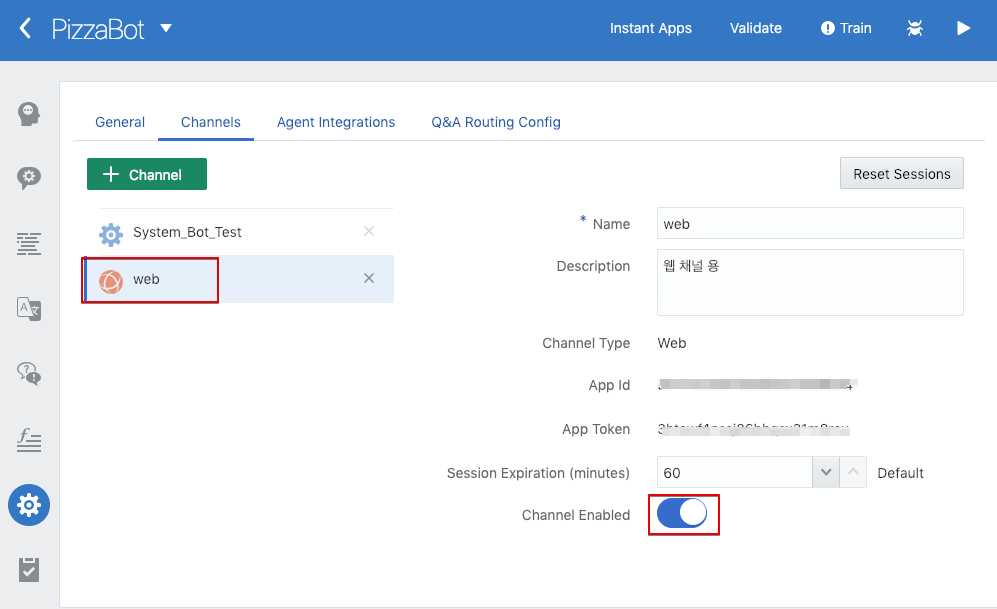
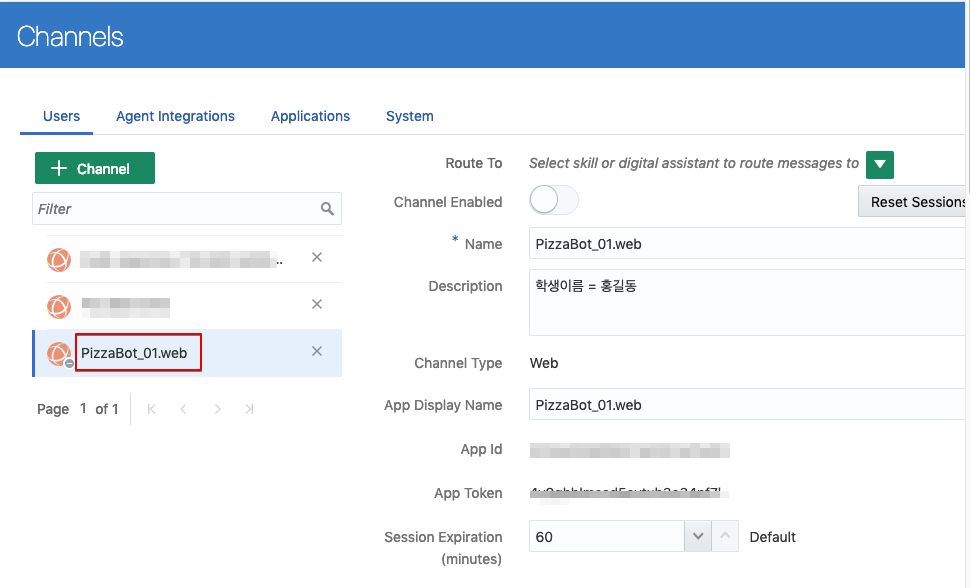
19.1.1로 업데이트

diff --git a/_posts/2019-01-23-챗봇 Hands-on Lab_4.md b/_posts/2019-01-23-챗봇 Hands-on Lab_4.md
@@ -12,26 +12,31 @@ categories: chatbot
 
 
 ## 웹 채널 생성
-이전 Lab에서 생성한 각자의 피자봇 **PizzaBot_{SEQ}** (예 : PizzaBot_01)를 선택하고 들어갑니다.
-
-좌측의 **톱니바퀴** 모양의 설정 아이콘을 클릭하여 설정 페이지로 들어가서 **Channels** 탭을 선택합니다. 
-
-**System_Bot_Test**라는 Test UI에서 사용하는 채널이 기본적으로 등록되어 있습니다. 이 설정은 그대로 두고 **+ Channel** 버튼을 클릭하여 새로운 채널을 생성하도록 합니다. 
-
+좌측 메인 메뉴의 **Channels** 메뉴를 선택합니다.
 ![](/assets/images/chatbot_lecture/channel/01_channel_settings.png)
+
+ **+ Channel** 버튼을 클릭하여 새로운 채널을 생성하도록 합니다. 
 
 다음과 같이 입력하고 **Create** 버튼을 클릭합니다.
 
-* Name : web
-* Descrption : 웹 채널 용 
+* Name : PizzaBot_{SEQ}.web 
+> 본인이 생성한 PizzaBot과 동일 명으로 합니다 
+* Descrption : 학생이름 = [본인이름]
 * Channel Type : Web
-* Channel Enabled : Enabled
 
 ![](/assets/images/chatbot_lecture/channel/02_create_channel.png)
 
 다음과 같이 채널이 만들어 진 것을 확인 합니다.
 
 ![](/assets/images/chatbot_lecture/channel/03_Channel_created.png)
+
+만든 채널을 각자의 PizzaBot과 연결하기 위해 **Route To**를 클릭하여 본인의 Bot과 연결되게 합니다.
+
+![](/assets/images/chatbot_lecture/channel/03_Channel_route.png)
+
+아래와 같이 연결되었는지를 확인하고 **Channel Enabled**를 활성화 시킵니다.
+
+![](/assets/images/chatbot_lecture/channel/03_Channel_route_done.png)
 
 채널 생성은 완료되었습니다.
 
@@ -42,6 +47,14 @@ Oracle Digital Assistant는 웹채널을 태스트 하기 위한 chat-sample-web
 Text Box에 자신의 PizzaBot에서 만든 **Web** 채널의 **App Id**를 복사해서 입력해 줍니다. **Continue**를 누르면 해당 웹페이지의 채팅은 자신의 PizzaBot에 연결 될 것입니다.
 
 ![](/assets/images/chatbot_lecture/channel/04_web_app_id.png)
+
+> App Id 입력하는 Text Box가 첫 화면에서 보이지 않는다면 다음과 같이 설정 아이콘을 클릭하여 App ID를 입력해 줍니다.
+>
+> ![](/assets/images/chatbot_lecture/channel/04_web_app_id_setting.png)
+>
+> App Id를 자신의 채널 것으로 업데이트하고 Save 합니다.
+>
+> ![](/assets/images/chatbot_lecture/channel/04_web_app_id_setting_save.png)
 
 **Chat with your BOT** 버튼을 클릭하여 대화를 시작해 봅니다.
 

diff --git a/_posts/2019-01-22-챗봇 Hands-on Lab_2.md b/_posts/2019-01-22-챗봇 Hands-on Lab_2.md
@@ -22,7 +22,7 @@ categories: chatbot
 
 ![](/assets/images/chatbot_lecture/00_after_login.png)
 
-아래와 같이 왼편 메뉴에서 **Bots** 메뉴를 클릭합니다.
+아래와 같이 왼편 메뉴에서 **Skills** 메뉴를 클릭합니다.
 
 ![](/assets/images/chatbot_lecture/01_bot_first_page.png)
 
@@ -39,12 +39,16 @@ categories: chatbot
 ![](/assets/images/chatbot_lecture/03_masterbot_clone.png)
 
 다음과 같이 입력하고 Clone 합니다.
+* Display Name :  MasterBot_[제공된 SEQ]
 * Name :  MasterBot_[제공된 SEQ]
-* Description : 본인 이름 
+* Version : 1.0
+* Description : 학생이름 = [본인 이름]
+* open cloned skill bot afterwards : check 
 
 ![](/assets/images/chatbot_lecture/04_masterbot_clone_window.png)
 
 복제가 성공되면 다음과 같이 새로운 BOT이 생성된 걸 볼 수 있습니다.
+> 복제된 Skill 바로 열기(open cloned skill bot afterwards) 체크박스를 선택했다면, 아래 화면이 보이지 않고 Skill Edit 모드로 바로 들어갑니다.
 
  ![](/assets/images/chatbot_lecture/05_after_clone_master.png)
 
@@ -52,6 +56,8 @@ categories: chatbot
 =======
 
  방금 생성한 본인의 MasterBot의 이름을 클릭하거나 아래와 같이 **Edit** 메뉴를 클릭하여 Bot의 편집 화면으로 이동합니다.
+
+ > 복제된 Skill 바로 열기(open cloned skill bot afterwards) 체크박스를 선택했다면, 아래 화면이 보이지 않고 Skill Edit 모드로 바로 들어갑니다.
 
  ![](/assets/images/chatbot_lecture/06_Edit_MasterBot.png)
 
@@ -68,7 +74,7 @@ Train 팝업창 상단의 **X** 버튼을 클릭하여 Train 윈도우를 닫습
 
 ![](/assets/images/chatbot_lecture/09_after_train.png)
 
-이제 Intent 테스트를 위한 Test 창을 열기 위해 상단의 **▶** 버튼을 클릭합니다.
+이제 Intent 테스트를 위한 Test 창을 열기 위해 상단의 **Try It Out!** 링크를 클릭합니다.
 
 ![](/assets/images/chatbot_lecture/10_play_button.png)
 
@@ -97,7 +103,7 @@ Intent를 먼저 테스트 해볼 것이기 때문에 Test 창에서 **Intent** 
 * Send Money : 계좌 이체 
 
 위 두 Intent에 매칭이 될 수 있도록 **Utterance**를 입력하여 대화를 시도해 봅니다. 
-대화 테스트는 Test UI의 **Bot** 탭에서 할 수 있습니다.
+대화 테스트는 왼쪽 메뉴 하단의 **▶** 메뉴를 클릭하여 테스트 창을 열어 수행합니다.
 
 ![](/assets/images/chatbot_lecture/13_test_ui_dial.png)
 
